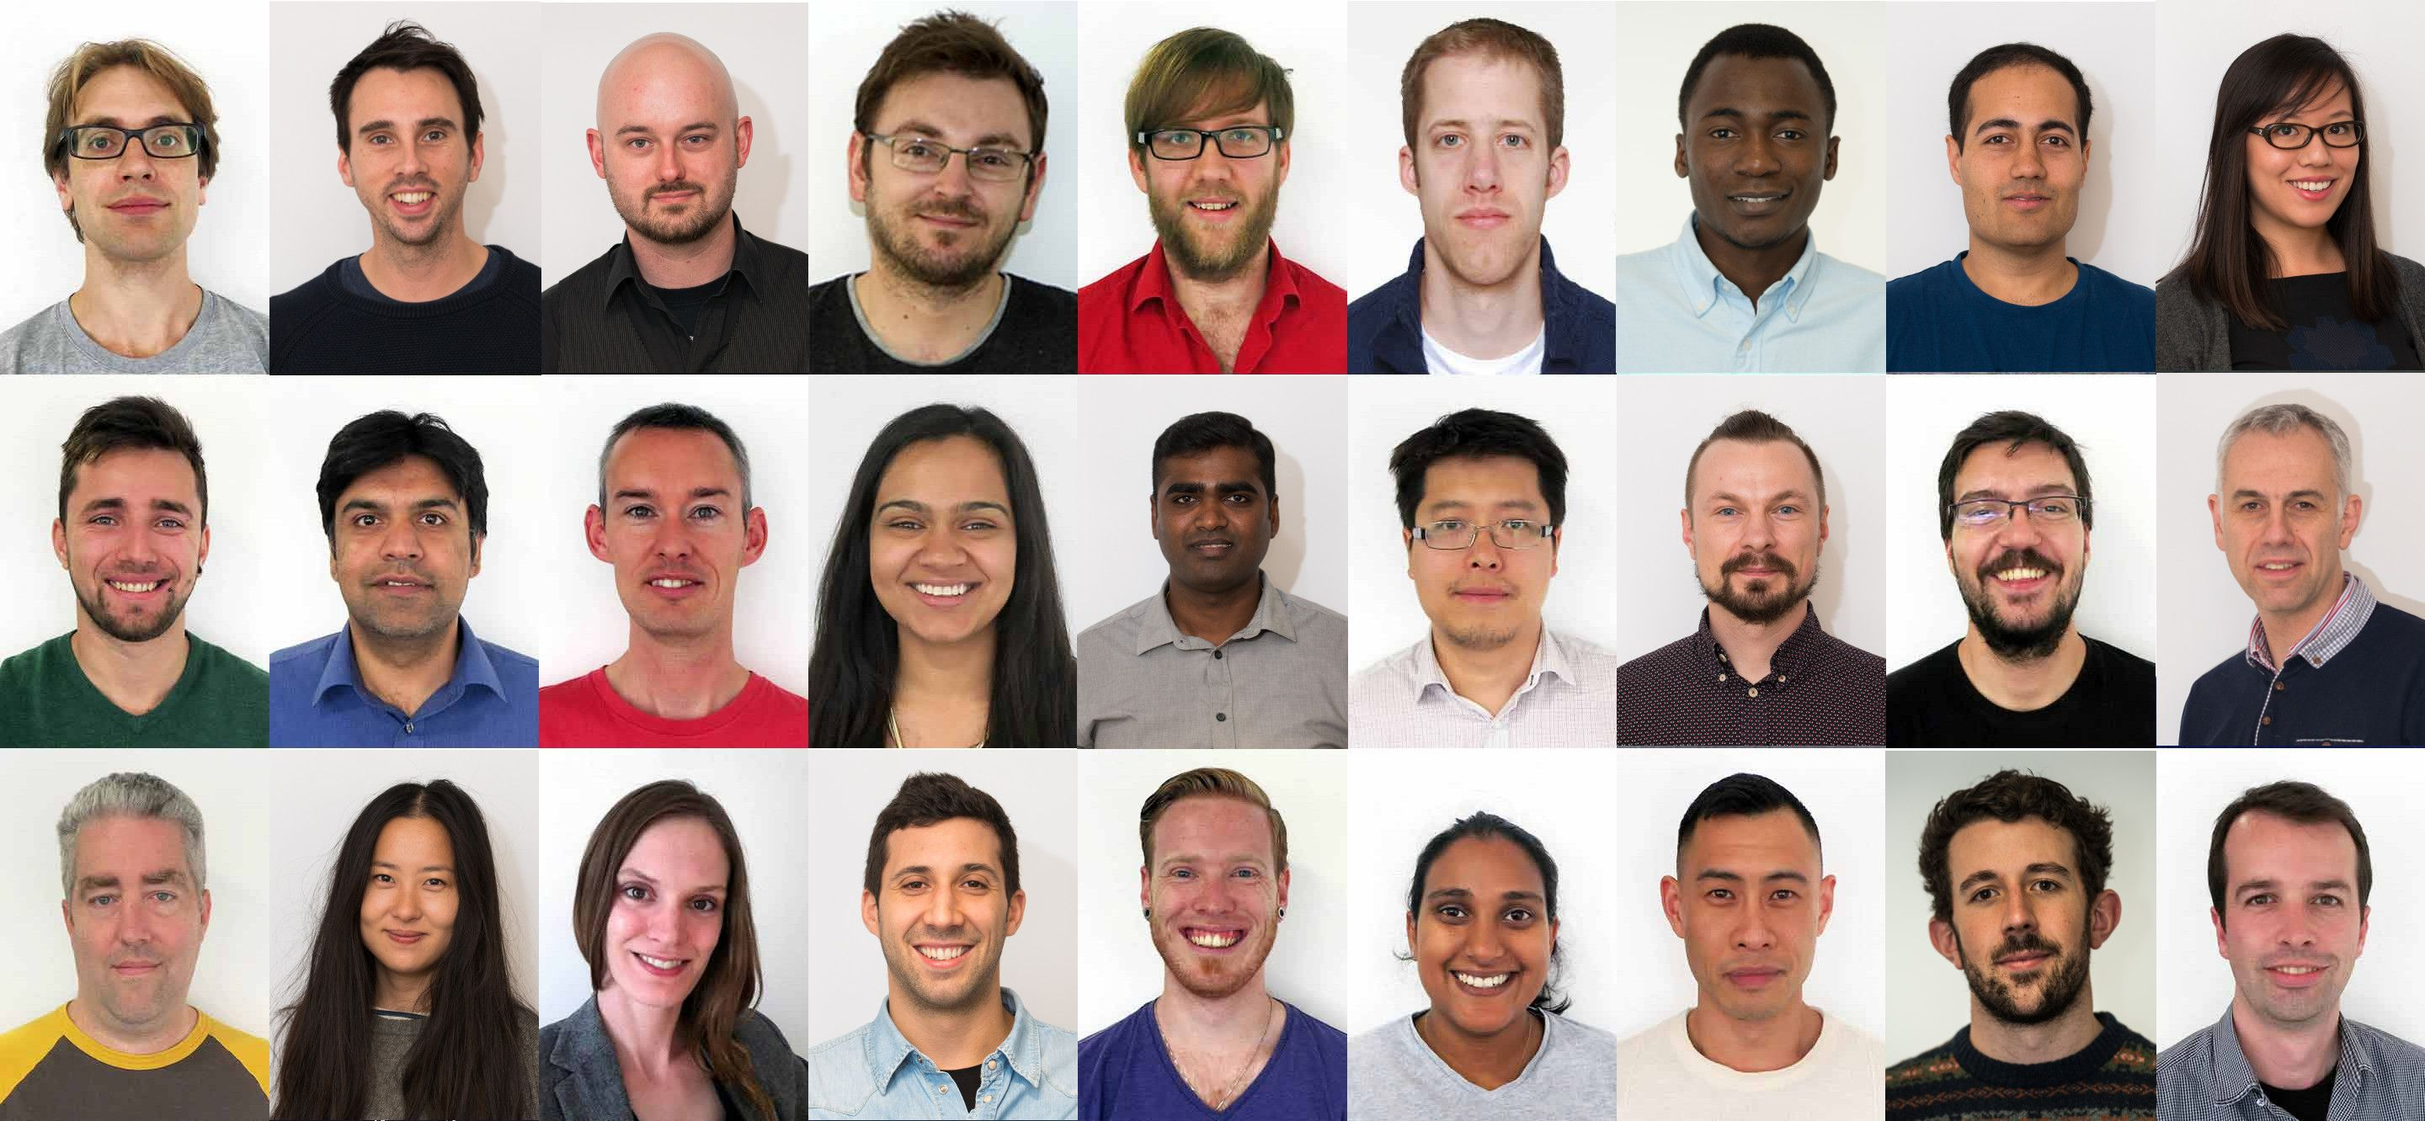
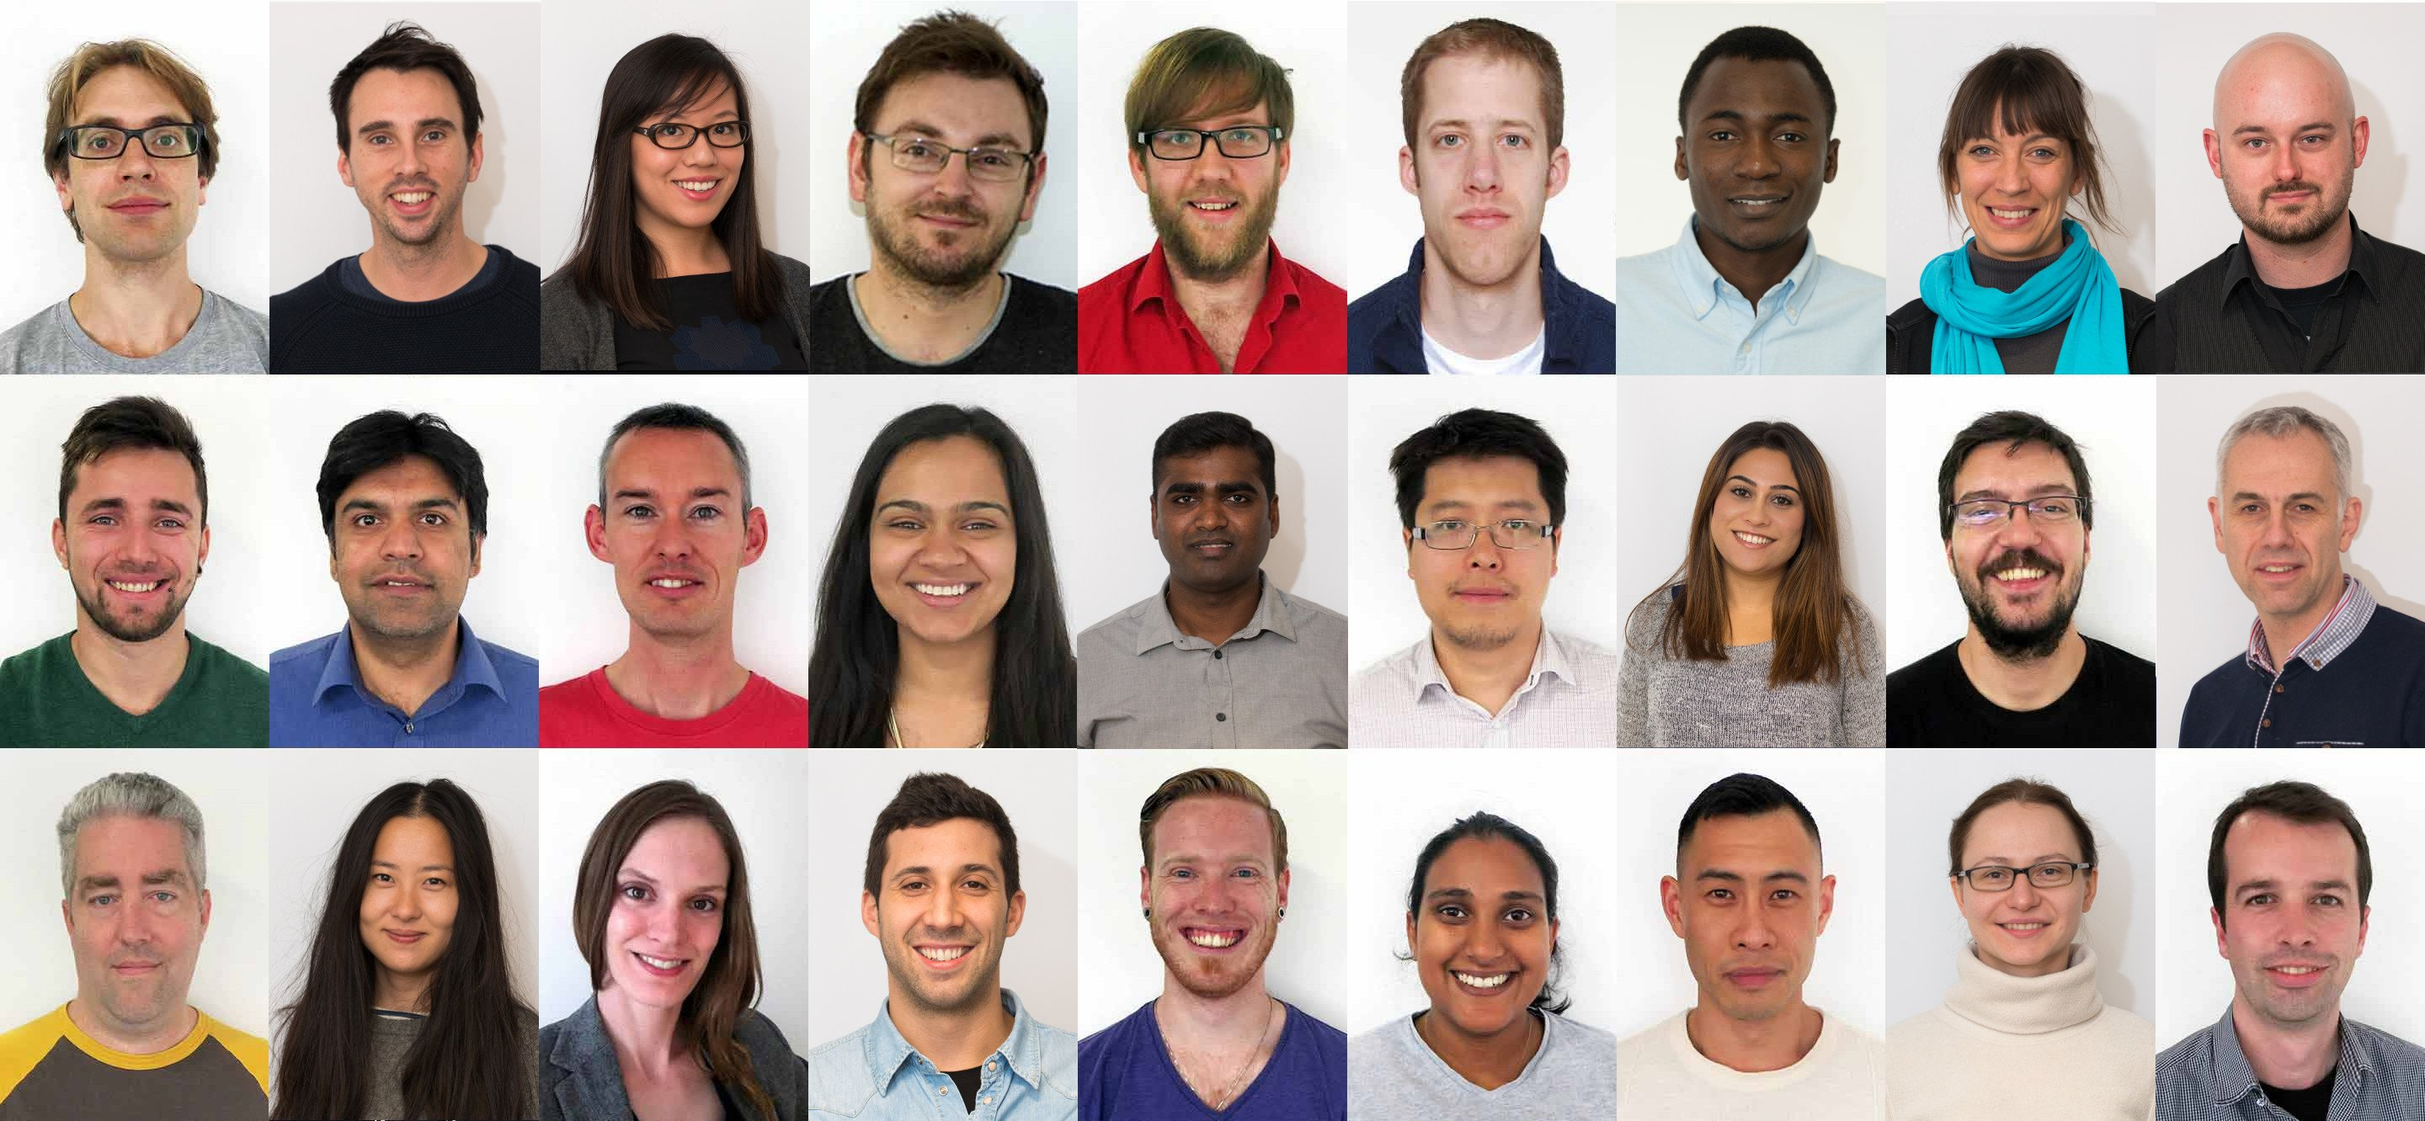
Updated personal photos.

diff --git a/assets/js/min/joinit-springer.min.js b/assets/js/min/joinit-springer.min.js
@@ -1,2 +1,2 @@
-/*! joinit-springer 2014-12-17 */
-!function(a){a.fn.fitText=function(b,c){var d=b||1,e=a.extend({minFontSize:Number.NEGATIVE_INFINITY,maxFontSize:Number.POSITIVE_INFINITY},c);return this.each(function(){var b=a(this),c=function(){b.css("font-size",Math.max(Math.min(b.width()/(10*d),parseFloat(e.maxFontSize)),parseFloat(e.minFontSize)))};c(),a(window).on("resize.fittext orientationchange.fittext",c)})}}(jQuery),function(a){a.fn.imageFlipper=function(b){var c=a.extend({rows:3,columns:9},b),d=["Jim, software engineer.","David, front-end developer.","Andrew, ux designer.","Rob, front-end developer.","Chris, software engineer.","Hilverd, software engineer.","Uthman, quality analyst.","Gavin, quality analyst engineer.","Jorja, developer.","Cris, software engineer.","Rizwan, software engineer.","Stephen, business analyst.","Reshma, all round great person.","Shankar, quality analyst.","Ai, software engineer.","Piotr, systems administrator.","Hector, platform engineer.","John, project manager.","John, software engineer.","Wenxin, technical support analyst.","Kristen, business analyst.","Carlos, quality analyst.","Todd, front-end developer.","Anjalie, business analyst.","Andrew, ui designer.","Jake, technical business analyst.","Rob, software engineer."];return this.each(function(){var b=a(this),e=responsiveImages.getImagePrefix({_tablet:1023,_widescreen:99999}),f=responsiveImages.buildImagePath(b.data("frontimage"),e),g=responsiveImages.buildImagePath(b.data("backimage"),e),h=a("<img/>"),i=a("<img/>"),j=b.data("cssprefix"),k=0,l=0,m=a("<ul/>").addClass("imageFlipper");h.on("load",function(){var e=this,h=responsiveImages.isRetina?2:1;l=e.height/c.rows/h,k=e.width/c.columns/h;for(var n=0,o=0,p=0;n<c.rows*c.columns;){{var q=a("<li title='"+d[n]+"'/>").css({width:k,height:l}).attr("tabIndex",0).on("click",function(){var b=a(this);b.addClass("over").siblings().removeClass("over")}).appendTo(m),r=a("<div/>").appendTo(q);a("<span class='front'/>").css({backgroundImage:"url("+j+f+")",backgroundPosition:-k*p+"px -"+l*o+"px",backgroundSize:e.width/h+"px "+e.height/h+"px",width:k,height:l,display:"block"}).appendTo(r),a("<span class='back'/>").css({backgroundImage:"url("+j+g+")",backgroundPosition:-k*p+"px -"+l*o+"px",backgroundSize:e.width/h+"px "+e.height/h+"px",width:k,height:l,display:"block"}).appendTo(r)}n++,o=Math.floor(n/c.columns),p=n%c.columns}i.attr("src",j+g),m.insertAfter(b)}),h.attr("src",j+f)})}}(jQuery),window.jQuery&&function(a){a.extend({xml2json:function(b,c){function d(b,g){if(!b)return null;{var h="",i=null,j=null;b.nodeType,e(b.localName||b.nodeName),b.text||b.nodeValue||""}b.childNodes&&b.childNodes.length>0&&a.each(b.childNodes,function(a,b){var c=b.nodeType,g=e(b.localName||b.nodeName),j=b.text||b.nodeValue||"";if(8!=c)if(3!=c&&4!=c&&g)i=i||{},i[g]?(i[g].length||(i[g]=f(i[g])),i[g]=f(i[g]),i[g][i[g].length]=d(b,!0),i[g].length=i[g].length):i[g]=d(b);else{if(j.match(/^\s+$/))return;h+=j.replace(/^\s+/,"").replace(/\s+$/,"")}}),b.attributes&&b.attributes.length>0&&(j={},i=i||{},a.each(b.attributes,function(a,b){var c=e(b.name),d=b.value;j[c]=d,i[c]?(i[cnn]=f(i[cnn]),i[c][i[c].length]=d,i[c].length=i[c].length):i[c]=d})),i&&(i=a.extend(""!=h?new String(h):{},i||{}),h=i.text?[i.text||""].concat([h]):h,h&&(i.text=h),h="");var k=i||h;return c&&(h&&(k={}),h=k.text||h||"",h&&(k.text=h),g||(k=f(k))),k}if(!b)return{};var e=function(a){return String(a||"").replace(/-/g,"_")},f=function(b){return a.isArray(b)||(b=[b]),b.length=b.length,b};if("string"==typeof b&&(b=a.text2xml(b)),b.nodeType){if(3==b.nodeType||4==b.nodeType)return b.nodeValue;var g=9==b.nodeType?b.documentElement:b,h=d(g,!0);return b=null,g=null,h}},text2xml:function(b){return a.parseXML(b)}})}(jQuery),function(){function a(){var a=f.$w.scrollTop(),b=f.$w.innerHeight(),c=Math.floor((a+b/2-f.parFx.position().top)/f.panelHeight);f.panels.removeClass("active").eq(c).addClass("active")}function b(){{var a=f.$w.innerHeight(),b=f.$w.scrollTop();$("html").innerHeight()}f.panels.each(function(){var c=$(this),d=c.position(),e=c.find("img"),g=d.top>a+b||d.top+c.innerHeight()<b;if(!g){var h=e.innerHeight()-f.panelHeight,i=h/(a/(b-d.top));e.css({"-webkit-transform":"translateY("+i+"px)","-moz-transform":"translateY("+i+"px)","-ms-transform":"translateY("+i+"px)",transform:"translateY("+i+"px)"})}})}function c(){var a=f.parFx.innerWidth();f.panelHeight=a*h.imageRatio(),f.panels.each(function(){$(this).css({height:Math.floor(f.panelHeight),"font-size":a/g*100+"%"})})}function d(){var a=!0;responsiveImages.noscriptHack($(".storyboards").find(".responsive"),{_smartphone:600,_tablet:1024,_widescreen:99999},function(){h.noParallax()||b()},a),responsiveImages.noscriptHack($(".our-workplace .home-section__grid, .our-culture, .home-section--our-people, .looking-for__photo").find(".responsive"),{_tablet:1024,_widescreen:99999},null,a),responsiveImages.noscriptHack($(".our-workplace .map, .our-products__product").find(".responsive"),{_tablet:1024,_widescreen:99999})}function e(){$.ajax({url:"http://hire.jobvite.com/CompanyJobs/Xml.aspx?c=q8w9Vfws",dataType:"xml",success:function(a){var b=$.xml2json(a);if("object"==typeof b&&b.hasOwnProperty("job"))for(var c=0;c<b.job.length;c++)if(b.job[c].hasOwnProperty("category")&&"Information Technology"==b.job[c].category){var d=b.job[c],e=d.location.replace(/United Kingdom/gi,"UK"),f='<li class="job-vacancies__vacancy"><a class="vacancy__role" href="'+d.detail_url+'"><strong>';f+=d.title.split("-")[0].trim()+'</strong> <span class="vacancy__location">'+e+"</span></a></li>",$(f).insertBefore(".job-vacancies__vacancy.cross-link")}},error:function(){var a="http://search.jobvite.com/web/modules/layout/companyDetails.htm?cId=q8w9Vfws&jId=oWXHZfwj&cl=http://hire.jobvite.com/Logo/2341_Springer.png&cn=Springer-Verlag%20UK",b='<li class="job-vacancies__vacancy"><a class="vacancy__role" href="'+a+'"><strong>View current vacancies</strong></a></li>';$(b).insertBefore(".job-vacancies__vacancy.cross-link")}})}var f={},g=1440,h={mobileBreakPoint:1024,isMobile:function(){return f.$w.innerWidth()<=h.mobileBreakPoint},imageRatio:function(){return this.noParallax()?.4:.4},isTouch:"ontouchstart"in window||navigator.msMaxTouchPoints>0,isIe:$("html").is(".ie9, .lt-ie9"),ieVer:function(){for(var a=$("html"),b=null,c=7;10>c;c++)if(a.is(".ie"+c)){b=c;break}return b}(),noParallax:function(){return!0}};$().ready(function(){$("html").removeClass("no-js"),e();var g=$("<div/>").addClass("QRcode");$("<img/>").attr({src:"https://chart.googleapis.com/chart?cht=qr&chs=75x75&chl="+location.href}).appendTo(g),$("<span/>").text(location.href).appendTo(g),g.appendTo($(".roles .home-section__heading"));var i=$(".storyboards__wrapper"),j=(i.position(),i.children(".storyboards__board")),k=$(window),l=j.eq(0).innerHeight();f={parFx:i,panels:j,$w:k,panelHeight:l,fitTexts:$(".fitText")},f.fitTexts.each(function(){var a=$(this);a.fitText(parseFloat(a.data("fittextcompressor")||1),{minFontSize:parseFloat(a.data("fittextminsize")||14)})}),k.on("resize",function(){$(document.body).toggleClass("noParallax",h.noParallax()),c(),a(),h.noParallax()||b()}),k.on("scroll",function(){a(),h.noParallax()||b()}),i.on("click","a",function(a){a.preventDefault();var b=$(this).closest(".storyboards__board").next(),c=f.$w.innerHeight();scrollTop=b.position().top-c/2+b.innerHeight()/2,$("html,body").animate({scrollTop:scrollTop},600)}),d(),(!h.ieVer||h.ieVer>8)&&$(".imageFlipper").imageFlipper(),k.resize()})}(),function(){$(document.body).toggleClass("mobile",$(window).innerWidth()<1024),window.responsiveImages={noscriptHack:function(a,b,c,d){var e=responsiveImages.getImagePrefix(b,d);a.each(function(){var a=$(this),b=a.data("imgclass"),d=a.attr("alt"),f=responsiveImages.buildImagePath(a.data("baseimg"),e),g=window.document.createElement("img"),h=$(g);c&&h.on("load",c),g.src=f,h.addClass(b).attr("alt",d).insertAfter(a)})},getImagePrefix:function(a,b){var c=1==b?!1:responsiveImages.isRetina,d=$(window).innerWidth();imgFormat="";for(var e in a)if(d<a[e]){imgFormat=e;break}return imgFormat=c?imgFormat+"@2x":imgFormat},buildImagePath:function(a,b){var c=a.split("."),d=c[0],e=c[1];return d+b+"."+e},isRetina:window.devicePixelRatio>1||window.matchMedia&&window.matchMedia("(-webkit-min-device-pixel-ratio: 1.5),(-moz-min-device-pixel-ratio: 1.5),(min-device-pixel-ratio: 1.5)").matches}}();
+/*! joinit-springer 2014-12-18 */
+!function(a){a.fn.fitText=function(b,c){var d=b||1,e=a.extend({minFontSize:Number.NEGATIVE_INFINITY,maxFontSize:Number.POSITIVE_INFINITY},c);return this.each(function(){var b=a(this),c=function(){b.css("font-size",Math.max(Math.min(b.width()/(10*d),parseFloat(e.maxFontSize)),parseFloat(e.minFontSize)))};c(),a(window).on("resize.fittext orientationchange.fittext",c)})}}(jQuery),function(a){a.fn.imageFlipper=function(b){var c=a.extend({rows:3,columns:9},b),d=["Jim, software engineer.","David, front-end developer.","Jorja, developer.","Rob, front-end developer.","Chris, software engineer.","Hilverd, software engineer.","Uthman, quality analyst.","Laura, business analyst.","Andrew, ux designer.","Cris, software engineer.","Rizwan, software engineer.","Stephen, product owner.","Reshma, all round great person.","Shankar, quality analyst.","Ai, software engineer.","Hatice, business analyst.","Hector, platform engineer.","John, project manager.","John, software engineer.","Wenxin, technical support analyst.","Kristen, business analyst.","Carlos, quality analyst.","Todd, front-end developer.","Anjalie, business analyst.","Andrew, ui designer.","Anna, developer.","Rob, software engineer."];return this.each(function(){var b=a(this),e=responsiveImages.getImagePrefix({_tablet:1023,_widescreen:99999}),f=responsiveImages.buildImagePath(b.data("frontimage"),e),g=responsiveImages.buildImagePath(b.data("backimage"),e),h=a("<img/>"),i=a("<img/>"),j=b.data("cssprefix"),k=0,l=0,m=a("<ul/>").addClass("imageFlipper");h.on("load",function(){var e=this,h=responsiveImages.isRetina?2:1;l=e.height/c.rows/h,k=e.width/c.columns/h;for(var n=0,o=0,p=0;n<c.rows*c.columns;){{var q=a("<li title='"+d[n]+"'/>").css({width:k,height:l}).attr("tabIndex",0).on("click",function(){var b=a(this);b.addClass("over").siblings().removeClass("over")}).appendTo(m),r=a("<div/>").appendTo(q);a("<span class='front'/>").css({backgroundImage:"url("+j+f+")",backgroundPosition:-k*p+"px -"+l*o+"px",backgroundSize:e.width/h+"px "+e.height/h+"px",width:k,height:l,display:"block"}).appendTo(r),a("<span class='back'/>").css({backgroundImage:"url("+j+g+")",backgroundPosition:-k*p+"px -"+l*o+"px",backgroundSize:e.width/h+"px "+e.height/h+"px",width:k,height:l,display:"block"}).appendTo(r)}n++,o=Math.floor(n/c.columns),p=n%c.columns}i.attr("src",j+g),m.insertAfter(b)}),h.attr("src",j+f)})}}(jQuery),window.jQuery&&function(a){a.extend({xml2json:function(b,c){function d(b,g){if(!b)return null;{var h="",i=null,j=null;b.nodeType,e(b.localName||b.nodeName),b.text||b.nodeValue||""}b.childNodes&&b.childNodes.length>0&&a.each(b.childNodes,function(a,b){var c=b.nodeType,g=e(b.localName||b.nodeName),j=b.text||b.nodeValue||"";if(8!=c)if(3!=c&&4!=c&&g)i=i||{},i[g]?(i[g].length||(i[g]=f(i[g])),i[g]=f(i[g]),i[g][i[g].length]=d(b,!0),i[g].length=i[g].length):i[g]=d(b);else{if(j.match(/^\s+$/))return;h+=j.replace(/^\s+/,"").replace(/\s+$/,"")}}),b.attributes&&b.attributes.length>0&&(j={},i=i||{},a.each(b.attributes,function(a,b){var c=e(b.name),d=b.value;j[c]=d,i[c]?(i[cnn]=f(i[cnn]),i[c][i[c].length]=d,i[c].length=i[c].length):i[c]=d})),i&&(i=a.extend(""!=h?new String(h):{},i||{}),h=i.text?[i.text||""].concat([h]):h,h&&(i.text=h),h="");var k=i||h;return c&&(h&&(k={}),h=k.text||h||"",h&&(k.text=h),g||(k=f(k))),k}if(!b)return{};var e=function(a){return String(a||"").replace(/-/g,"_")},f=function(b){return a.isArray(b)||(b=[b]),b.length=b.length,b};if("string"==typeof b&&(b=a.text2xml(b)),b.nodeType){if(3==b.nodeType||4==b.nodeType)return b.nodeValue;var g=9==b.nodeType?b.documentElement:b,h=d(g,!0);return b=null,g=null,h}},text2xml:function(b){return a.parseXML(b)}})}(jQuery),function(){function a(){var a=f.$w.scrollTop(),b=f.$w.innerHeight(),c=Math.floor((a+b/2-f.parFx.position().top)/f.panelHeight);f.panels.removeClass("active").eq(c).addClass("active")}function b(){{var a=f.$w.innerHeight(),b=f.$w.scrollTop();$("html").innerHeight()}f.panels.each(function(){var c=$(this),d=c.position(),e=c.find("img"),g=d.top>a+b||d.top+c.innerHeight()<b;if(!g){var h=e.innerHeight()-f.panelHeight,i=h/(a/(b-d.top));e.css({"-webkit-transform":"translateY("+i+"px)","-moz-transform":"translateY("+i+"px)","-ms-transform":"translateY("+i+"px)",transform:"translateY("+i+"px)"})}})}function c(){var a=f.parFx.innerWidth();f.panelHeight=a*h.imageRatio(),f.panels.each(function(){$(this).css({height:Math.floor(f.panelHeight),"font-size":a/g*100+"%"})})}function d(){var a=!0;responsiveImages.noscriptHack($(".storyboards").find(".responsive"),{_smartphone:600,_tablet:1024,_widescreen:99999},function(){h.noParallax()||b()},a),responsiveImages.noscriptHack($(".our-workplace .home-section__grid, .our-culture, .home-section--our-people, .looking-for__photo").find(".responsive"),{_tablet:1024,_widescreen:99999},null,a),responsiveImages.noscriptHack($(".our-workplace .map, .our-products__product").find(".responsive"),{_tablet:1024,_widescreen:99999})}function e(){$.ajax({url:"http://hire.jobvite.com/CompanyJobs/Xml.aspx?c=q8w9Vfws",dataType:"xml",success:function(a){var b=$.xml2json(a);if("object"==typeof b&&b.hasOwnProperty("job"))for(var c=0;c<b.job.length;c++)if(b.job[c].hasOwnProperty("category")&&"Information Technology"==b.job[c].category){var d=b.job[c],e=d.location.replace(/United Kingdom/gi,"UK"),f='<li class="job-vacancies__vacancy"><a class="vacancy__role" href="'+d.detail_url+'"><strong>';f+=d.title.split("-")[0].trim()+'</strong> <span class="vacancy__location">'+e+"</span></a></li>",$(f).insertBefore(".job-vacancies__vacancy.cross-link")}},error:function(){var a="http://search.jobvite.com/web/modules/layout/companyDetails.htm?cId=q8w9Vfws&jId=oWXHZfwj&cl=http://hire.jobvite.com/Logo/2341_Springer.png&cn=Springer-Verlag%20UK",b='<li class="job-vacancies__vacancy"><a class="vacancy__role" href="'+a+'"><strong>View current vacancies</strong></a></li>';$(b).insertBefore(".job-vacancies__vacancy.cross-link")}})}var f={},g=1440,h={mobileBreakPoint:1024,isMobile:function(){return f.$w.innerWidth()<=h.mobileBreakPoint},imageRatio:function(){return this.noParallax()?.4:.4},isTouch:"ontouchstart"in window||navigator.msMaxTouchPoints>0,isIe:$("html").is(".ie9, .lt-ie9"),ieVer:function(){for(var a=$("html"),b=null,c=7;10>c;c++)if(a.is(".ie"+c)){b=c;break}return b}(),noParallax:function(){return!0}};$().ready(function(){$("html").removeClass("no-js"),e();var g=$("<div/>").addClass("QRcode");$("<img/>").attr({src:"https://chart.googleapis.com/chart?cht=qr&chs=75x75&chl="+location.href}).appendTo(g),$("<span/>").text(location.href).appendTo(g),g.appendTo($(".roles .home-section__heading"));var i=$(".storyboards__wrapper"),j=(i.position(),i.children(".storyboards__board")),k=$(window),l=j.eq(0).innerHeight();f={parFx:i,panels:j,$w:k,panelHeight:l,fitTexts:$(".fitText")},f.fitTexts.each(function(){var a=$(this);a.fitText(parseFloat(a.data("fittextcompressor")||1),{minFontSize:parseFloat(a.data("fittextminsize")||14)})}),k.on("resize",function(){$(document.body).toggleClass("noParallax",h.noParallax()),c(),a(),h.noParallax()||b()}),k.on("scroll",function(){a(),h.noParallax()||b()}),i.on("click","a",function(a){a.preventDefault();var b=$(this).closest(".storyboards__board").next(),c=f.$w.innerHeight();scrollTop=b.position().top-c/2+b.innerHeight()/2,$("html,body").animate({scrollTop:scrollTop},600)}),d(),(!h.ieVer||h.ieVer>8)&&$(".imageFlipper").imageFlipper(),k.resize()})}(),function(){$(document.body).toggleClass("mobile",$(window).innerWidth()<1024),window.responsiveImages={noscriptHack:function(a,b,c,d){var e=responsiveImages.getImagePrefix(b,d);a.each(function(){var a=$(this),b=a.data("imgclass"),d=a.attr("alt"),f=responsiveImages.buildImagePath(a.data("baseimg"),e),g=window.document.createElement("img"),h=$(g);c&&h.on("load",c),g.src=f,h.addClass(b).attr("alt",d).insertAfter(a)})},getImagePrefix:function(a,b){var c=1==b?!1:responsiveImages.isRetina,d=$(window).innerWidth();imgFormat="";for(var e in a)if(d<a[e]){imgFormat=e;break}return imgFormat=c?imgFormat+"@2x":imgFormat},buildImagePath:function(a,b){var c=a.split("."),d=c[0],e=c[1];return d+b+"."+e},isRetina:window.devicePixelRatio>1||window.matchMedia&&window.matchMedia("(-webkit-min-device-pixel-ratio: 1.5),(-moz-min-device-pixel-ratio: 1.5),(min-device-pixel-ratio: 1.5)").matches}}();

diff --git a/assets/js/imageFlipper.js b/assets/js/imageFlipper.js
@@ -19,20 +19,20 @@
     var people = [
     	"Jim, software engineer.",
     	"David, front-end developer.",
-    	"Andrew, ux designer.",
+    	"Jorja, developer.",
     	"Rob, front-end developer.",
     	"Chris, software engineer.",
     	"Hilverd, software engineer.",
     	"Uthman, quality analyst.",
-    	"Gavin, quality analyst engineer.",
-    	"Jorja, developer.",
+    	"Laura, business analyst.",
+    	"Andrew, ux designer.",
     	"Cris, software engineer.",
     	"Rizwan, software engineer.",
-    	"Stephen, business analyst.",
+    	"Stephen, product owner.",
     	"Reshma, all round great person.",
     	"Shankar, quality analyst.",
     	"Ai, software engineer.",
-    	"Piotr, systems administrator.",
+    	"Hatice, business analyst.",
     	"Hector, platform engineer.",
     	"John, project manager.",
     	"John, software engineer.",
@@ -42,7 +42,7 @@
     	"Todd, front-end developer.",
     	"Anjalie, business analyst.",
     	"Andrew, ui designer.",
-    	"Jake, technical business analyst.",
+    	"Anna, developer.",
     	"Rob, software engineer."
     ];
 
